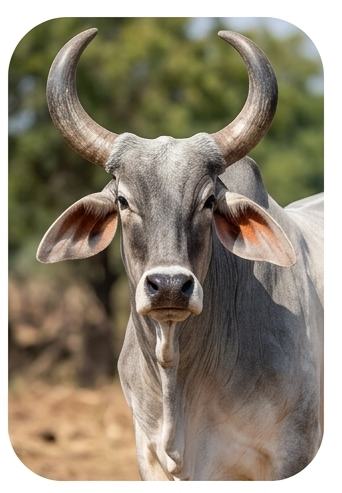
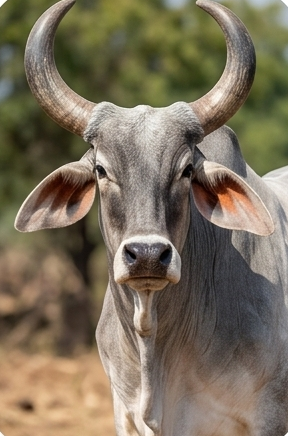
Task complete: Replace Kankrej breed attached image

diff --git a/components/moozzle-ui.tsx b/components/moozzle-ui.tsx
@@ -41,6 +41,11 @@ export const colors = {
 
 const girPhoto = require('../assets/design/photo-gir-cow-37fd7402.jpg');
 const murrahPhoto = require('../assets/design/photo-murrah-buffalo-c3170d28.jpg');
+const kankrejPhoto = require('../assets/photo-kankrej-cattle.png');
+
+function isKankrej(breed: string | undefined): boolean {
+  return breed?.trim().toLowerCase() === 'kankrej';
+}
 
 const translations: Record<Language, Record<string, string>> = {
   EN: {
@@ -146,8 +151,9 @@ export function formatMoozzleId(id: string): string {
   return id.replace(/(\d{4})(\d{4})(\d{4})/, '$1 $2 $3');
 }
 
-/** Species artwork, used where an animal has no live-engine muzzle reference capture. */
-export function getAnimalImageSource(animalType: Animal['animal_type'] | undefined): number {
+/** Breed/species artwork, used where an animal has no live-engine muzzle reference capture. */
+export function getAnimalImageSource(animalType: Animal['animal_type'] | undefined, breed?: string): number {
+  if (animalType !== 'Buffalo' && isKankrej(breed)) return kankrejPhoto;
   return animalType === 'Buffalo' ? murrahPhoto : girPhoto;
 }
 
@@ -341,8 +347,10 @@ export function AnimalPhoto({ animal, size = 72, rounded = true, style }: { anim
   return (
     <Image
       accessibilityLabel={animal ? `${animal.breed} ${animal.animal_type} reference` : 'Bovine reference'}
-      source={getAnimalImageSource(animal?.animal_type)}
+      source={getAnimalImageSource(animal?.animal_type, animal?.breed)}
       contentFit="cover"
+      // Portrait Kankrej photo: anchor to the top so horns and face stay in square thumbnails.
+      contentPosition={animal?.animal_type !== 'Buffalo' && isKankrej(animal?.breed) ? 'top' : 'center'}
       style={[{ width: size, height: size, borderRadius: rounded ? 12 : 0, backgroundColor: colors.primaryLight }, style]}
     />
   );
